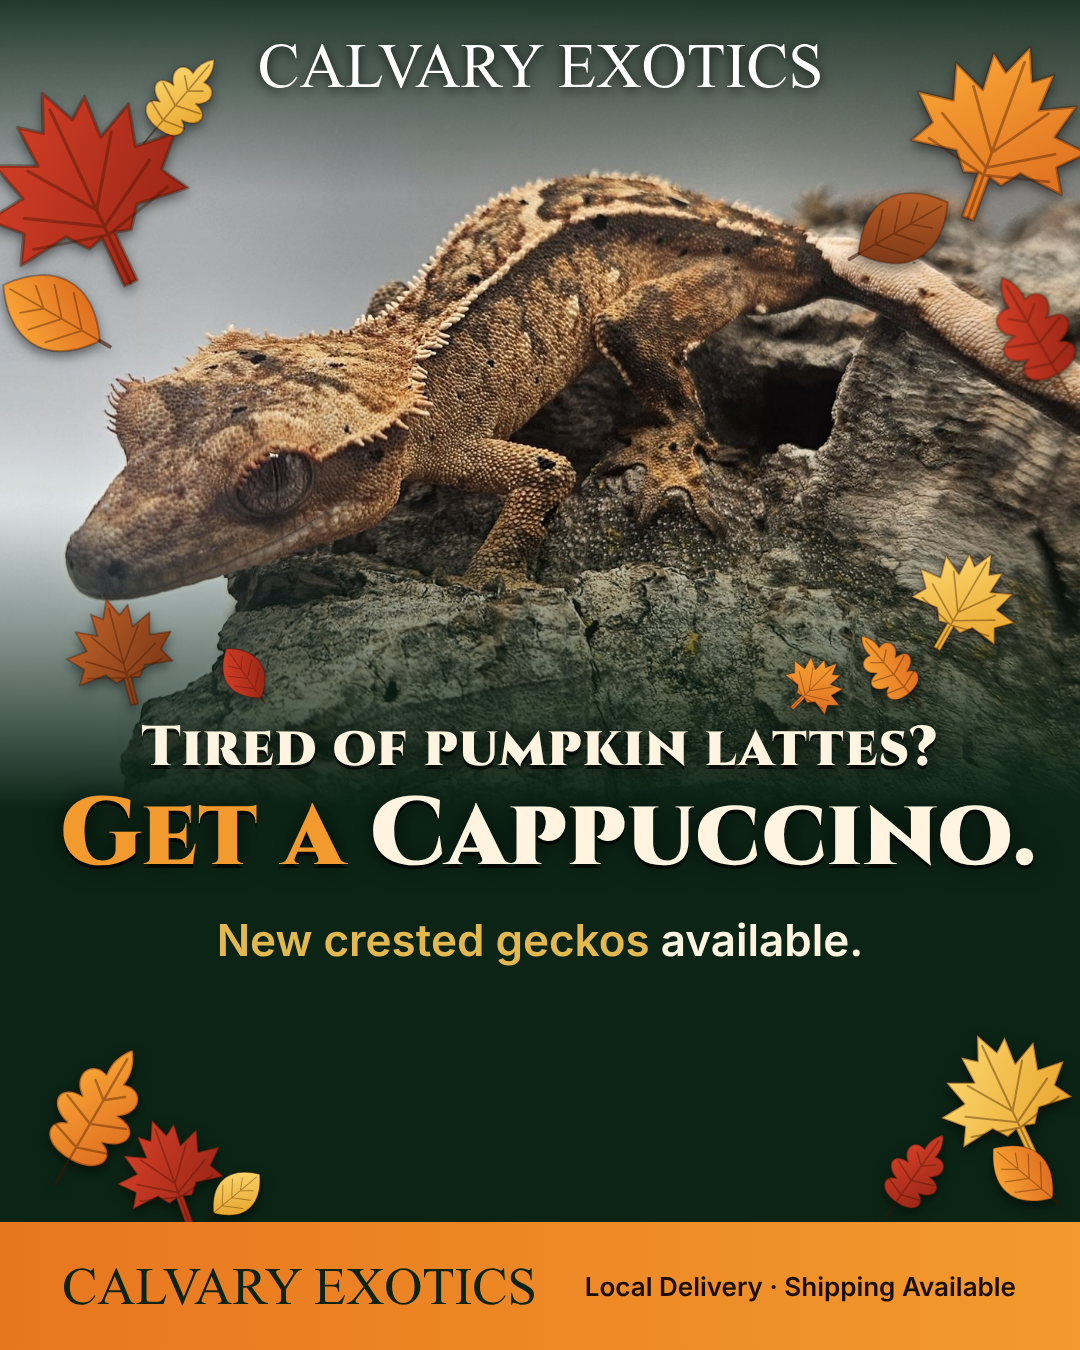
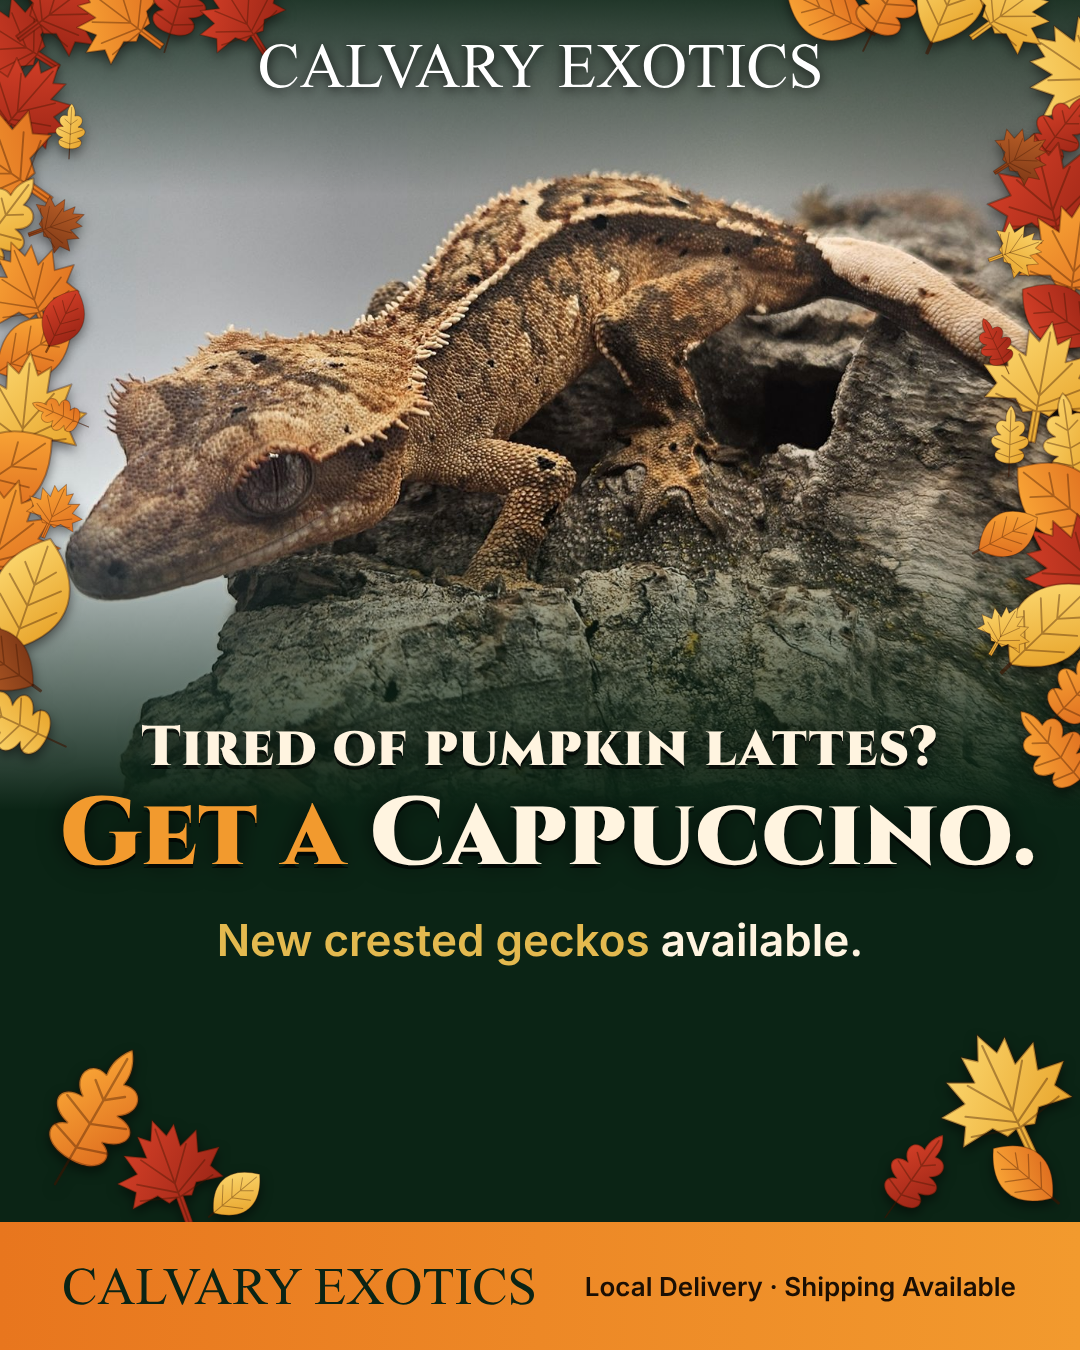
Ads: leafy border around the photo area
Claude-Session: https://claude.ai/code/session_01MTEoVmbNfKHYX384wUKzCJ

Changed region(s): [[0.7333, 0.0, 1.0, 0.5911], [0.0, 0.0, 0.275, 0.56]]

diff --git a/marketing/facebook-ad.html b/marketing/facebook-ad.html
@@ -46,24 +46,56 @@ p.sub b{color:var(--gold)}
 </symbol>
 </defs></svg>
 <svg class="leaves" width="1080" height="1350" viewBox="0 0 1080 1350"><g style="filter:drop-shadow(0 5px 6px rgba(0,0,0,.5))">
-<use href="#maple" fill="url(#gRed)" x="-30" y="70" width="230" height="230" transform="rotate(-25 85.0 185.0)"/>
-<use href="#oak" fill="url(#gGold)" x="120" y="40" width="120" height="120" transform="rotate(40 180.0 100.0)"/>
-<use href="#leaf" fill="url(#gOrange)" x="-10" y="250" width="130" height="130" transform="rotate(-60 55.0 315.0)"/>
-<use href="#maple" fill="url(#gOrange)" x="900" y="30" width="200" height="200" transform="rotate(20 1000.0 130.0)"/>
-<use href="#leaf" fill="url(#gRust)" x="840" y="170" width="120" height="120" transform="rotate(60 900.0 230.0)"/>
-<use href="#oak" fill="url(#gRed)" x="960" y="260" width="150" height="150" transform="rotate(-30 1035.0 335.0)"/>
-<use href="#leaf" fill="url(#gGold)" x="20" y="500" width="110" height="110" transform="rotate(25 75.0 555.0)"/>
-<use href="#maple" fill="url(#gRust)" x="60" y="590" width="120" height="120" transform="rotate(-15 120.0 650.0)"/>
-<use href="#maple" fill="url(#gGold)" x="905" y="540" width="120" height="120" transform="rotate(30 965.0 600.0)"/>
-<use href="#oak" fill="url(#gOrange)" x="840" y="620" width="100" height="100" transform="rotate(-40 890.0 670.0)"/>
-<use href="#leaf" fill="url(#gRed)" x="210" y="640" width="70" height="70" transform="rotate(-35 245.0 675.0)"/>
-<use href="#maple" fill="url(#gOrange)" x="780" y="650" width="70" height="70" transform="rotate(45 815.0 685.0)"/>
-<use href="#oak" fill="url(#gOrange)" x="10" y="1030" width="170" height="170" transform="rotate(30 95.0 1115.0)"/>
-<use href="#maple" fill="url(#gRed)" x="110" y="1110" width="120" height="120" transform="rotate(-20 170.0 1170.0)"/>
-<use href="#leaf" fill="url(#gGold)" x="200" y="1160" width="70" height="70" transform="rotate(50 235.0 1195.0)"/>
-<use href="#maple" fill="url(#gGold)" x="930" y="1020" width="150" height="150" transform="rotate(-25 1005.0 1095.0)"/>
-<use href="#oak" fill="url(#gRed)" x="860" y="1120" width="110" height="110" transform="rotate(35 915.0 1175.0)"/>
-<use href="#leaf" fill="url(#gOrange)" x="980" y="1130" width="90" height="90" transform="rotate(-50 1025.0 1175.0)"/>
+<use href="#maple" fill="url(#gRed)" x="-40" y="-14" width="109" height="109" transform="rotate(-58 15 40)"/>
+<use href="#maple" fill="url(#gGold)" x="1014" y="3" width="134" height="134" transform="rotate(-56 1081 70)"/>
+<use href="#maple" fill="url(#gRed)" x="-30" y="46" width="113" height="113" transform="rotate(41 27 102)"/>
+<use href="#oak" fill="url(#gRed)" x="1007" y="80" width="104" height="104" transform="rotate(38 1059 132)"/>
+<use href="#maple" fill="url(#gOrange)" x="-70" y="96" width="136" height="136" transform="rotate(-55 -2 164)"/>
+<use href="#maple" fill="url(#gRed)" x="980" y="126" width="137" height="137" transform="rotate(-14 1049 194)"/>
+<use href="#oak" fill="url(#gGold)" x="-70" y="158" width="135" height="135" transform="rotate(37 -3 226)"/>
+<use href="#maple" fill="url(#gOrange)" x="1009" y="189" width="134" height="134" transform="rotate(8 1076 256)"/>
+<use href="#maple" fill="url(#gOrange)" x="-26" y="232" width="111" height="111" transform="rotate(-22 30 288)"/>
+<use href="#leaf" fill="url(#gRed)" x="1009" y="265" width="106" height="106" transform="rotate(-54 1062 318)"/>
+<use href="#leaf" fill="url(#gOrange)" x="-20" y="298" width="103" height="103" transform="rotate(57 31 350)"/>
+<use href="#maple" fill="url(#gGold)" x="975" y="313" width="134" height="134" transform="rotate(10 1042 380)"/>
+<use href="#maple" fill="url(#gGold)" x="-44" y="344" width="137" height="137" transform="rotate(6 24 412)"/>
+<use href="#oak" fill="url(#gGold)" x="1014" y="386" width="111" height="111" transform="rotate(-8 1070 442)"/>
+<use href="#leaf" fill="url(#gOrange)" x="-68" y="406" width="136" height="136" transform="rotate(56 0 474)"/>
+<use href="#leaf" fill="url(#gOrange)" x="1000" y="440" width="128" height="128" transform="rotate(-52 1064 504)"/>
+<use href="#maple" fill="url(#gOrange)" x="-64" y="470" width="132" height="132" transform="rotate(17 2 536)"/>
+<use href="#maple" fill="url(#gRed)" x="1010" y="500" width="131" height="131" transform="rotate(-51 1076 566)"/>
+<use href="#leaf" fill="url(#gGold)" x="-38" y="530" width="136" height="136" transform="rotate(19 30 598)"/>
+<use href="#leaf" fill="url(#gGold)" x="982" y="562" width="131" height="131" transform="rotate(46 1047 628)"/>
+<use href="#leaf" fill="url(#gRust)" x="-54" y="608" width="105" height="105" transform="rotate(-54 -1 660)"/>
+<use href="#oak" fill="url(#gOrange)" x="1022" y="630" width="119" height="119" transform="rotate(44 1082 690)"/>
+<use href="#oak" fill="url(#gGold)" x="-49" y="660" width="124" height="124" transform="rotate(-65 13 722)"/>
+<use href="#oak" fill="url(#gOrange)" x="995" y="691" width="122" height="122" transform="rotate(-41 1056 752)"/>
+<use href="#oak" fill="url(#gGold)" x="40" y="100" width="61" height="61" transform="rotate(3 70 130)"/>
+<use href="#maple" fill="url(#gRust)" x="988" y="122" width="67" height="67" transform="rotate(57 1021 155)"/>
+<use href="#maple" fill="url(#gRust)" x="24" y="192" width="65" height="65" transform="rotate(70 57 225)"/>
+<use href="#maple" fill="url(#gGold)" x="985" y="218" width="64" height="64" transform="rotate(70 1017 250)"/>
+<use href="#leaf" fill="url(#gRed)" x="26" y="284" width="73" height="73" transform="rotate(27 63 320)"/>
+<use href="#oak" fill="url(#gRed)" x="962" y="312" width="67" height="67" transform="rotate(-25 995 345)"/>
+<use href="#oak" fill="url(#gOrange)" x="26" y="382" width="67" height="67" transform="rotate(-67 59 415)"/>
+<use href="#oak" fill="url(#gGold)" x="971" y="401" width="78" height="78" transform="rotate(2 1010 440)"/>
+<use href="#maple" fill="url(#gOrange)" x="23" y="478" width="64" height="64" transform="rotate(24 55 510)"/>
+<use href="#leaf" fill="url(#gOrange)" x="967" y="496" width="78" height="78" transform="rotate(61 1006 535)"/>
+<use href="#oak" fill="url(#gRed)" x="46" y="566" width="79" height="79" transform="rotate(-57 85 605)"/>
+<use href="#maple" fill="url(#gRust)" x="972" y="592" width="77" height="77" transform="rotate(32 1011 630)"/>
+<use href="#maple" fill="url(#gRed)" x="8" y="-44" width="103" height="103" transform="rotate(32 60 7)"/>
+<use href="#maple" fill="url(#gOrange)" x="67" y="-57" width="106" height="106" transform="rotate(42 120 -4)"/>
+<use href="#leaf" fill="url(#gOrange)" x="128" y="-52" width="103" height="103" transform="rotate(-57 180 0)"/>
+<use href="#leaf" fill="url(#gOrange)" x="190" y="-52" width="100" height="100" transform="rotate(67 240 -2)"/>
+<use href="#leaf" fill="url(#gOrange)" x="765" y="-67" width="130" height="130" transform="rotate(-64 830 -2)"/>
+<use href="#oak" fill="url(#gOrange)" x="826" y="-66" width="127" height="127" transform="rotate(26 890 -3)"/>
+<use href="#leaf" fill="url(#gGold)" x="890" y="-61" width="120" height="120" transform="rotate(23 950 -1)"/>
+<use href="#maple" fill="url(#gGold)" x="958" y="-42" width="103" height="103" transform="rotate(54 1010 10)"/>
+<use href="#oak" fill="url(#gOrange)" x="10" y="1030" width="170" height="170" transform="rotate(30 95 1115)"/>
+<use href="#maple" fill="url(#gRed)" x="110" y="1110" width="120" height="120" transform="rotate(-20 170 1170)"/>
+<use href="#leaf" fill="url(#gGold)" x="200" y="1160" width="70" height="70" transform="rotate(50 235 1195)"/>
+<use href="#maple" fill="url(#gGold)" x="930" y="1020" width="150" height="150" transform="rotate(-25 1005 1095)"/>
+<use href="#oak" fill="url(#gRed)" x="860" y="1120" width="110" height="110" transform="rotate(35 915 1175)"/>
+<use href="#leaf" fill="url(#gOrange)" x="980" y="1130" width="90" height="90" transform="rotate(-50 1025 1175)"/>
 </g></svg>
 
 <div class="panel">

diff --git a/marketing/facebook-ad-2.html b/marketing/facebook-ad-2.html
@@ -47,23 +47,55 @@ p.sub b{color:var(--gold)}
 </symbol>
 </defs></svg>
 <svg class="leaves" width="1080" height="1350" viewBox="0 0 1080 1350"><g style="filter:drop-shadow(0 5px 6px rgba(0,0,0,.5))">
-<use href="#maple" fill="url(#gRed)" x="-30" y="70" width="230" height="230" transform="rotate(-25 85.0 185.0)"/>
-<use href="#oak" fill="url(#gGold)" x="120" y="40" width="120" height="120" transform="rotate(40 180.0 100.0)"/>
-<use href="#leaf" fill="url(#gOrange)" x="-10" y="250" width="130" height="130" transform="rotate(-60 55.0 315.0)"/>
-<use href="#maple" fill="url(#gOrange)" x="900" y="30" width="200" height="200" transform="rotate(20 1000.0 130.0)"/>
-<use href="#leaf" fill="url(#gRust)" x="840" y="170" width="120" height="120" transform="rotate(60 900.0 230.0)"/>
-<use href="#oak" fill="url(#gRed)" x="960" y="260" width="150" height="150" transform="rotate(-30 1035.0 335.0)"/>
-<use href="#maple" fill="url(#gRust)" x="60" y="590" width="120" height="120" transform="rotate(-15 120.0 650.0)"/>
-<use href="#maple" fill="url(#gGold)" x="905" y="540" width="120" height="120" transform="rotate(30 965.0 600.0)"/>
-<use href="#oak" fill="url(#gOrange)" x="840" y="620" width="100" height="100" transform="rotate(-40 890.0 670.0)"/>
-<use href="#leaf" fill="url(#gRed)" x="210" y="640" width="70" height="70" transform="rotate(-35 245.0 675.0)"/>
-<use href="#maple" fill="url(#gOrange)" x="780" y="650" width="70" height="70" transform="rotate(45 815.0 685.0)"/>
-<use href="#oak" fill="url(#gOrange)" x="10" y="1030" width="170" height="170" transform="rotate(30 95.0 1115.0)"/>
-<use href="#maple" fill="url(#gRed)" x="110" y="1110" width="120" height="120" transform="rotate(-20 170.0 1170.0)"/>
-<use href="#leaf" fill="url(#gGold)" x="200" y="1160" width="70" height="70" transform="rotate(50 235.0 1195.0)"/>
-<use href="#maple" fill="url(#gGold)" x="930" y="1020" width="150" height="150" transform="rotate(-25 1005.0 1095.0)"/>
-<use href="#oak" fill="url(#gRed)" x="860" y="1120" width="110" height="110" transform="rotate(35 915.0 1175.0)"/>
-<use href="#leaf" fill="url(#gOrange)" x="980" y="1130" width="90" height="90" transform="rotate(-50 1025.0 1175.0)"/>
+<use href="#maple" fill="url(#gRed)" x="-40" y="-14" width="109" height="109" transform="rotate(-58 15 40)"/>
+<use href="#maple" fill="url(#gGold)" x="1014" y="3" width="134" height="134" transform="rotate(-56 1081 70)"/>
+<use href="#maple" fill="url(#gRed)" x="-30" y="46" width="113" height="113" transform="rotate(41 27 102)"/>
+<use href="#oak" fill="url(#gRed)" x="1007" y="80" width="104" height="104" transform="rotate(38 1059 132)"/>
+<use href="#maple" fill="url(#gOrange)" x="-70" y="96" width="136" height="136" transform="rotate(-55 -2 164)"/>
+<use href="#maple" fill="url(#gRed)" x="980" y="126" width="137" height="137" transform="rotate(-14 1049 194)"/>
+<use href="#oak" fill="url(#gGold)" x="-70" y="158" width="135" height="135" transform="rotate(37 -3 226)"/>
+<use href="#maple" fill="url(#gOrange)" x="1009" y="189" width="134" height="134" transform="rotate(8 1076 256)"/>
+<use href="#maple" fill="url(#gOrange)" x="-26" y="232" width="111" height="111" transform="rotate(-22 30 288)"/>
+<use href="#leaf" fill="url(#gRed)" x="1009" y="265" width="106" height="106" transform="rotate(-54 1062 318)"/>
+<use href="#leaf" fill="url(#gOrange)" x="-20" y="298" width="103" height="103" transform="rotate(57 31 350)"/>
+<use href="#maple" fill="url(#gGold)" x="975" y="313" width="134" height="134" transform="rotate(10 1042 380)"/>
+<use href="#maple" fill="url(#gGold)" x="-44" y="344" width="137" height="137" transform="rotate(6 24 412)"/>
+<use href="#oak" fill="url(#gGold)" x="1014" y="386" width="111" height="111" transform="rotate(-8 1070 442)"/>
+<use href="#leaf" fill="url(#gOrange)" x="-68" y="406" width="136" height="136" transform="rotate(56 0 474)"/>
+<use href="#leaf" fill="url(#gOrange)" x="1000" y="440" width="128" height="128" transform="rotate(-52 1064 504)"/>
+<use href="#maple" fill="url(#gOrange)" x="-64" y="470" width="132" height="132" transform="rotate(17 2 536)"/>
+<use href="#maple" fill="url(#gRed)" x="1010" y="500" width="131" height="131" transform="rotate(-51 1076 566)"/>
+<use href="#leaf" fill="url(#gGold)" x="-38" y="530" width="136" height="136" transform="rotate(19 30 598)"/>
+<use href="#leaf" fill="url(#gGold)" x="982" y="562" width="131" height="131" transform="rotate(46 1047 628)"/>
+<use href="#leaf" fill="url(#gRust)" x="-54" y="608" width="105" height="105" transform="rotate(-54 -1 660)"/>
+<use href="#oak" fill="url(#gOrange)" x="1022" y="630" width="119" height="119" transform="rotate(44 1082 690)"/>
+<use href="#oak" fill="url(#gGold)" x="-49" y="660" width="124" height="124" transform="rotate(-65 13 722)"/>
+<use href="#oak" fill="url(#gOrange)" x="995" y="691" width="122" height="122" transform="rotate(-41 1056 752)"/>
+<use href="#oak" fill="url(#gGold)" x="40" y="100" width="61" height="61" transform="rotate(3 70 130)"/>
+<use href="#maple" fill="url(#gRust)" x="988" y="122" width="67" height="67" transform="rotate(57 1021 155)"/>
+<use href="#maple" fill="url(#gRust)" x="24" y="192" width="65" height="65" transform="rotate(70 57 225)"/>
+<use href="#maple" fill="url(#gGold)" x="985" y="218" width="64" height="64" transform="rotate(70 1017 250)"/>
+<use href="#leaf" fill="url(#gRed)" x="26" y="284" width="73" height="73" transform="rotate(27 63 320)"/>
+<use href="#oak" fill="url(#gRed)" x="962" y="312" width="67" height="67" transform="rotate(-25 995 345)"/>
+<use href="#oak" fill="url(#gOrange)" x="26" y="382" width="67" height="67" transform="rotate(-67 59 415)"/>
+<use href="#oak" fill="url(#gGold)" x="971" y="401" width="78" height="78" transform="rotate(2 1010 440)"/>
+<use href="#maple" fill="url(#gOrange)" x="23" y="478" width="64" height="64" transform="rotate(24 55 510)"/>
+<use href="#leaf" fill="url(#gOrange)" x="967" y="496" width="78" height="78" transform="rotate(61 1006 535)"/>
+<use href="#maple" fill="url(#gGold)" x="974" y="600" width="61" height="61" transform="rotate(30 1005 630)"/>
+<use href="#maple" fill="url(#gRed)" x="4" y="-49" width="112" height="112" transform="rotate(53 60 7)"/>
+<use href="#maple" fill="url(#gOrange)" x="64" y="-41" width="112" height="112" transform="rotate(-53 120 15)"/>
+<use href="#oak" fill="url(#gRed)" x="123" y="-56" width="114" height="114" transform="rotate(17 180 1)"/>
+<use href="#maple" fill="url(#gRed)" x="190" y="-36" width="101" height="101" transform="rotate(-32 240 14)"/>
+<use href="#leaf" fill="url(#gOrange)" x="778" y="-40" width="103" height="103" transform="rotate(-64 830 12)"/>
+<use href="#oak" fill="url(#gOrange)" x="826" y="-66" width="127" height="127" transform="rotate(26 890 -3)"/>
+<use href="#leaf" fill="url(#gGold)" x="890" y="-61" width="120" height="120" transform="rotate(23 950 -1)"/>
+<use href="#maple" fill="url(#gGold)" x="958" y="-42" width="103" height="103" transform="rotate(54 1010 10)"/>
+<use href="#oak" fill="url(#gOrange)" x="10" y="1030" width="170" height="170" transform="rotate(30 95 1115)"/>
+<use href="#maple" fill="url(#gRed)" x="110" y="1110" width="120" height="120" transform="rotate(-20 170 1170)"/>
+<use href="#leaf" fill="url(#gGold)" x="200" y="1160" width="70" height="70" transform="rotate(50 235 1195)"/>
+<use href="#maple" fill="url(#gGold)" x="930" y="1020" width="150" height="150" transform="rotate(-25 1005 1095)"/>
+<use href="#oak" fill="url(#gRed)" x="860" y="1120" width="110" height="110" transform="rotate(35 915 1175)"/>
+<use href="#leaf" fill="url(#gOrange)" x="980" y="1130" width="90" height="90" transform="rotate(-50 1025 1175)"/>
 </g></svg>
 
 <div class="panel">
